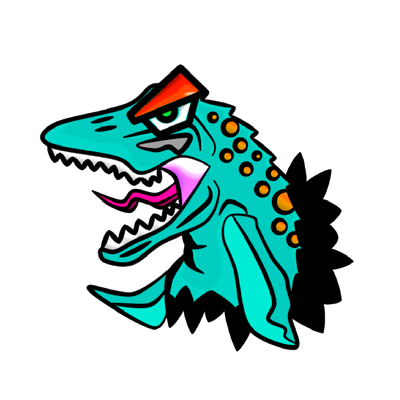
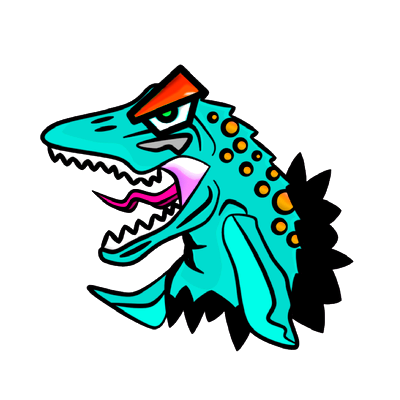
青などの暗さを解消しPOP強調(明度UP/彩度調整) putti/mossun/gmc・テンプレ既定値も更新

diff --git a/template.html b/template.html
@@ -128,12 +128,12 @@ const CONFIG = {
 
   // 6色パレット（key=画像/色名キー。hue/sat/bri は char モード用）
   palettes: [
-    { key:"red",    name:"BLAZE RED",    hue:0,   sat:2.0, bri:1.10 },
-    { key:"yellow", name:"SUNNY YELLOW", hue:50,  sat:2.2, bri:1.10 },
-    { key:"green",  name:"SLIME GREEN",  hue:120, sat:2.5, bri:1.05 },
-    { key:"cyan",   name:"ICE CYAN",     hue:175, sat:2.5, bri:1.05 },
-    { key:"blue",   name:"GALAXY BLUE",  hue:230, sat:2.5, bri:1.05 },
-    { key:"pink",   name:"NEON PINK",    hue:300, sat:2.5, bri:1.00 },
+    { key:"red",    name:"BLAZE RED",    hue:0,   sat:2.0, bri:1.12 },
+    { key:"yellow", name:"SUNNY YELLOW", hue:50,  sat:2.1, bri:1.14 },
+    { key:"green",  name:"SLIME GREEN",  hue:120, sat:2.3, bri:1.10 },
+    { key:"cyan",   name:"ICE CYAN",     hue:175, sat:2.3, bri:1.18 },
+    { key:"blue",   name:"GALAXY BLUE",  hue:225, sat:1.9, bri:1.40 },
+    { key:"pink",   name:"NEON PINK",    hue:300, sat:2.2, bri:1.14 },
   ],
 
   // 購入リンク（Shopify or CHARAMARL）。variants 空なら productUrl のみ

diff --git a/gmc.html b/gmc.html
@@ -123,12 +123,12 @@ const CONFIG = {
 
   // 6色パレット（hue/sat/bri は赤ベース基準。baseHueOffset で全体を補正）
   palettes: [
-    { name:"BLAZE RED",    hue:0,   sat:2.0, bri:1.10 },
-    { name:"SUNNY YELLOW", hue:50,  sat:2.2, bri:1.10 },
-    { name:"SLIME GREEN",  hue:120, sat:2.5, bri:1.05 },
-    { name:"ICE CYAN",     hue:175, sat:2.5, bri:1.05 },
-    { name:"GALAXY BLUE",  hue:230, sat:2.5, bri:1.05 },
-    { name:"NEON PINK",    hue:300, sat:2.5, bri:1.00 },
+    { name:"BLAZE RED",    hue:0,   sat:2.0, bri:1.12 },
+    { name:"SUNNY YELLOW", hue:50,  sat:2.1, bri:1.14 },
+    { name:"SLIME GREEN",  hue:120, sat:2.3, bri:1.10 },
+    { name:"ICE CYAN",     hue:175, sat:2.3, bri:1.18 },
+    { name:"GALAXY BLUE",  hue:225, sat:1.9, bri:1.40 },
+    { name:"NEON PINK",    hue:300, sat:2.2, bri:1.14 },
   ],
 
   // 購入リンク（Shopify or CHARAMARL）。variants 空なら productUrl のみ
